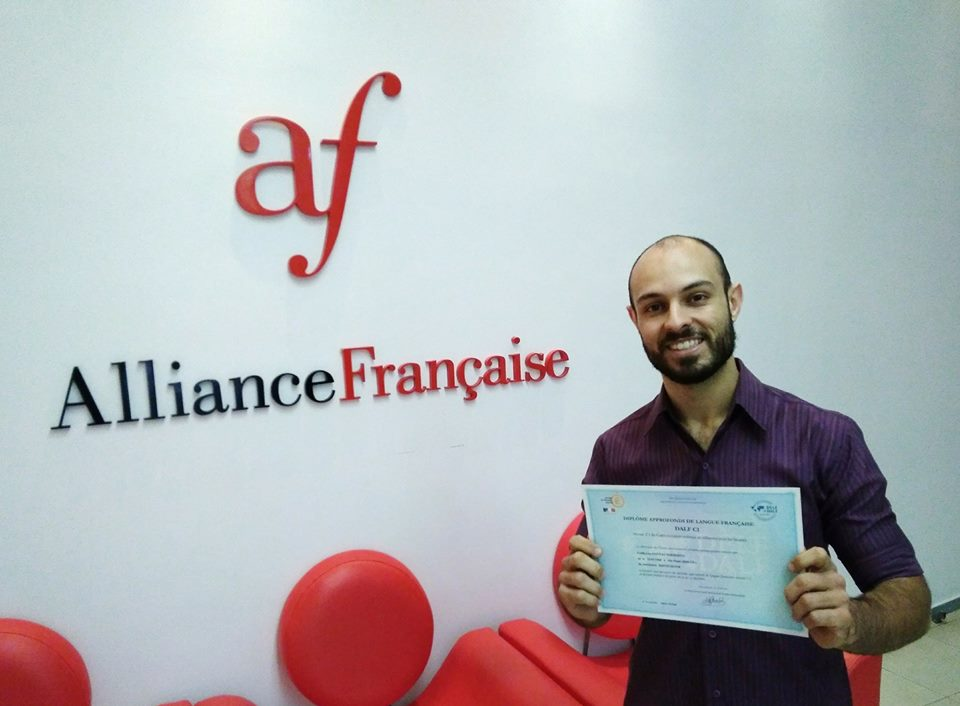
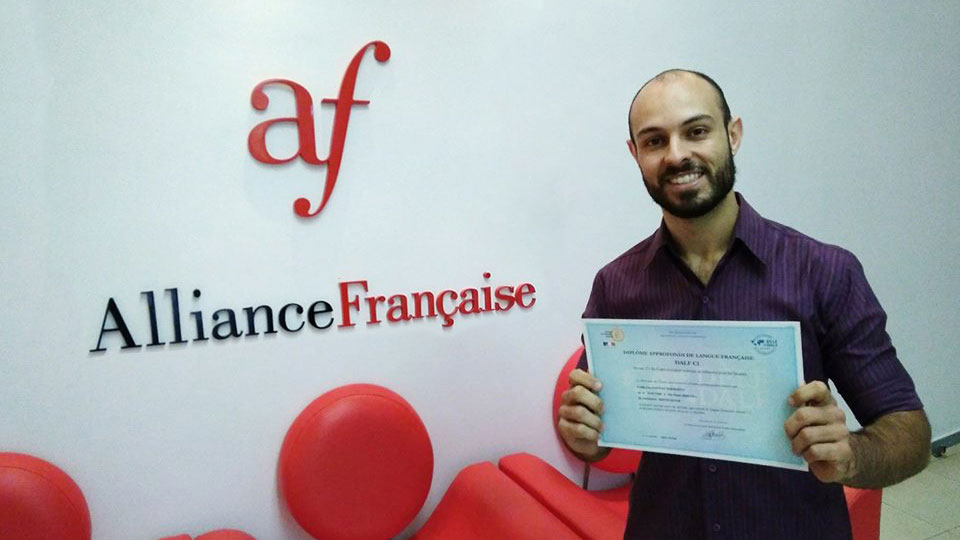
imagens e index alterados

diff --git a/index.html b/index.html
@@ -44,11 +44,19 @@
 	
 	
 		<title>
-		
+			Guilherme Norberto - Professor de Francês
 		</title>
+		
+		<style>
+		img {
+			max-width: 100%;
+			height: auto;
+			width: auto\9; /* ie8 */
+		}
+		</style>
 	</head>
 	<body>
-		<img src="img/professor-de-frances-guilherme-norberto.jpg" />
+		<img src="img/professor-de-frances-guilherme-norberto.jpg" alt="Guilherme Norberto, Professor de Francês, em Paris - Pont Neuf ao fundo" />
 		<h1>Guilherme Norberto Professor de Francês</h1>
 		<p>Bonjour mes amis ! Comment allez-vous ? Estou desenvolvendo um curso de francês em vídeo aulas. Se tem interesse em adquiri-lo, entre em contato através desse link: <a href="https://goo.gl/forms/5XCe24c3paqE8ToE2">https://goo.gl/forms/5XCe24c3paqE8ToE2</a></p>
 		<p>Merci beaucoup ! </p>
@@ -61,7 +69,8 @@
 
 		<p>Iniciei os estudos do <a href="http://www.professordefrances.com.br/category/idioma-frances/">idioma francês</a> em um curso livre da Faculdade de Letras da USP (FFLCH/USP). Nessa mesma instituição fiz cursos de aperfeiçoamento sobre temas diversos (literatura francófona, preparação para as provas do DELF/DALF) e também participei de palestras e jornadas de formação sobre a língua francesa e o ensino de idiomas. Além disso, entre 2015 e 2016, estive na França por 6 meses para aperfeiçoar meus conhecimentos linguísticos e culturais.</p>
 
-		<p>https://www.youtube.com/watch?v=tkZCFkQpS94</p>
+		<p><iframe width="560" height="315" src="https://www.youtube.com/embed/tkZCFkQpS94" frameborder="0" allow="accelerometer; autoplay; encrypted-media; gyroscope; picture-in-picture" allowfullscreen></iframe>
+		<br />https://www.youtube.com/watch?v=tkZCFkQpS94</p>
 
 		<p>Abaixo relato com mais detalhes minha trajetória.</p>
 
@@ -95,15 +104,16 @@
 			<li>Para a expressão e compreensão oral, cantava para mim mesmo músicas dos cantores <a href="http://www.professordefrances.com.br/tag/jacques-brel/">Jacques Brel</a> e <a href="http://www.professordefrances.com.br/tag/edith-piaf/">Edith Piaf</a> tentando imitar a pronúncia de cada palavra. Além das <a href="http://www.professordefrances.com.br/category/idioma-frances/musicas/">músicas</a>, também ouvia a rádio <a href="http://www.professordefrances.com.br/idioma-frances/france-info-pratique-frances-ouvindo-noticias-direto-da-franca/">France Info</a>.</li>
 			<li>Além disso, também estudava a conjugação de verbos com aplicativos para celular e tentava utilizar o idioma em diálogos com alguns amigos francófonos que conheci em outras viagens.</li>
 		</ul>
+		
 		<h3><strong>Como comecei a dar aulas de francês?</strong></h3>
+		
+		<img src="img/professor-de-frances-guilherme-norberto-recebendo-DALF-diploma-avancado-do-idioma-frances.jpg" alt="Guilherme Norberto, Professor de Francês, em Paris - Pont Neuf ao fundo" />
 
 		<p>Sempre desejei ser professor, talvez, em parte por influência e exemplo da minha mãe, psicopedagoga aposentada.</p>
 
 		<p>Em agosto de 2014, uma escola de idiomas em Alphaville (São Paulo) que estava procurando um <a href="http://www.professordefrances.com.br">professor de francês</a> entrou em contato comigo através do Facebook. Enviei meu currículo para eles, fiz entrevista e logo assinamos um contrato: começaria de imediato ensinando alunos iniciantes. Desde o primeiro dia, adorei a experiência e nesse momento defini minha missão:
 		<blockquote>Ajudar o máximo de pessoas a descobrirem o idioma francês e o mundo francófono.</blockquote>
-		- Guilherme Norberto, <a href="http://www.ProfessordeFrances.com.br">Professor de Francês</a></p>
-
-		<br /><br/>
+		<em>- Guilherme Norberto, <a href="http://www.ProfessordeFrances.com.br">Professor de Francês</a></em></p>
 
 		<p>Alguns meses depois, o semestre de aulas terminara e eu tinha adorado a experiência de poder compartilhar meu conhecimento sobre o <a href="http://www.professordefrances.com.br/category/idioma-frances/">idioma francês</a>: senti que deveria continuar nesse caminho.</p>
 
@@ -130,7 +140,7 @@
 
 		<p>Bonne journée et à bientôt.</p>
 
-		<strong>Guilherme Norberto</strong>
+		<h4><strong>Guilherme Norberto</strong></h4>
 		<em><a href="http://www.professordefrances.com.br">Professor de Francês</a> certificado DALF C1</em><a title="APFESP - Associação dos Professores de Francês do Estado de São Paulo" href="http://www.apfesp.org.br/">
 		</a><a href="http://www.ProfessorDeFrances.com.br/#assinatura-artigos">www.ProfessorDeFrances.com.br</a>
 
@@ -138,11 +148,15 @@
 
 		<p>Convido todos a conhecerem nossos perfis nas redes sociais:</p>
 
+		<a href="https://www.LINKEDIN.com/in/guilhermedna#contato-site"><img src="img/linkedin.gif" alt="Página Professor de Francês no Facebook" width="64" height="64" /></a>
+		
 		<a href="https://www.FACEBOOK.com/professordefrances#contato-site"><img src="img/facebook.gif" alt="Página Professor de Francês no Facebook" width="64" height="64" /></a>
 
 		<a href="https://www.INSTAGRAM.com/professordefrances#contato-site"><img src="img/instagram.gif" alt="perfil instagram Professor de Francês" width="64" height="64" /></a>
 
 		<a href="https://goo.gl/nZEIKv"><img src="img/youtube.gif" alt="canal Youtube Professor de Francês" width="64" height="64" /></a>
+		
+		<a href="http://api.whatsapp.com/send?1=pt_BR&phone=5511958295398"><img src="img/whatsapp.gif" alt="canal Youtube Professor de Francês" width="64" height="64" /></a>
 		
 		
 		
